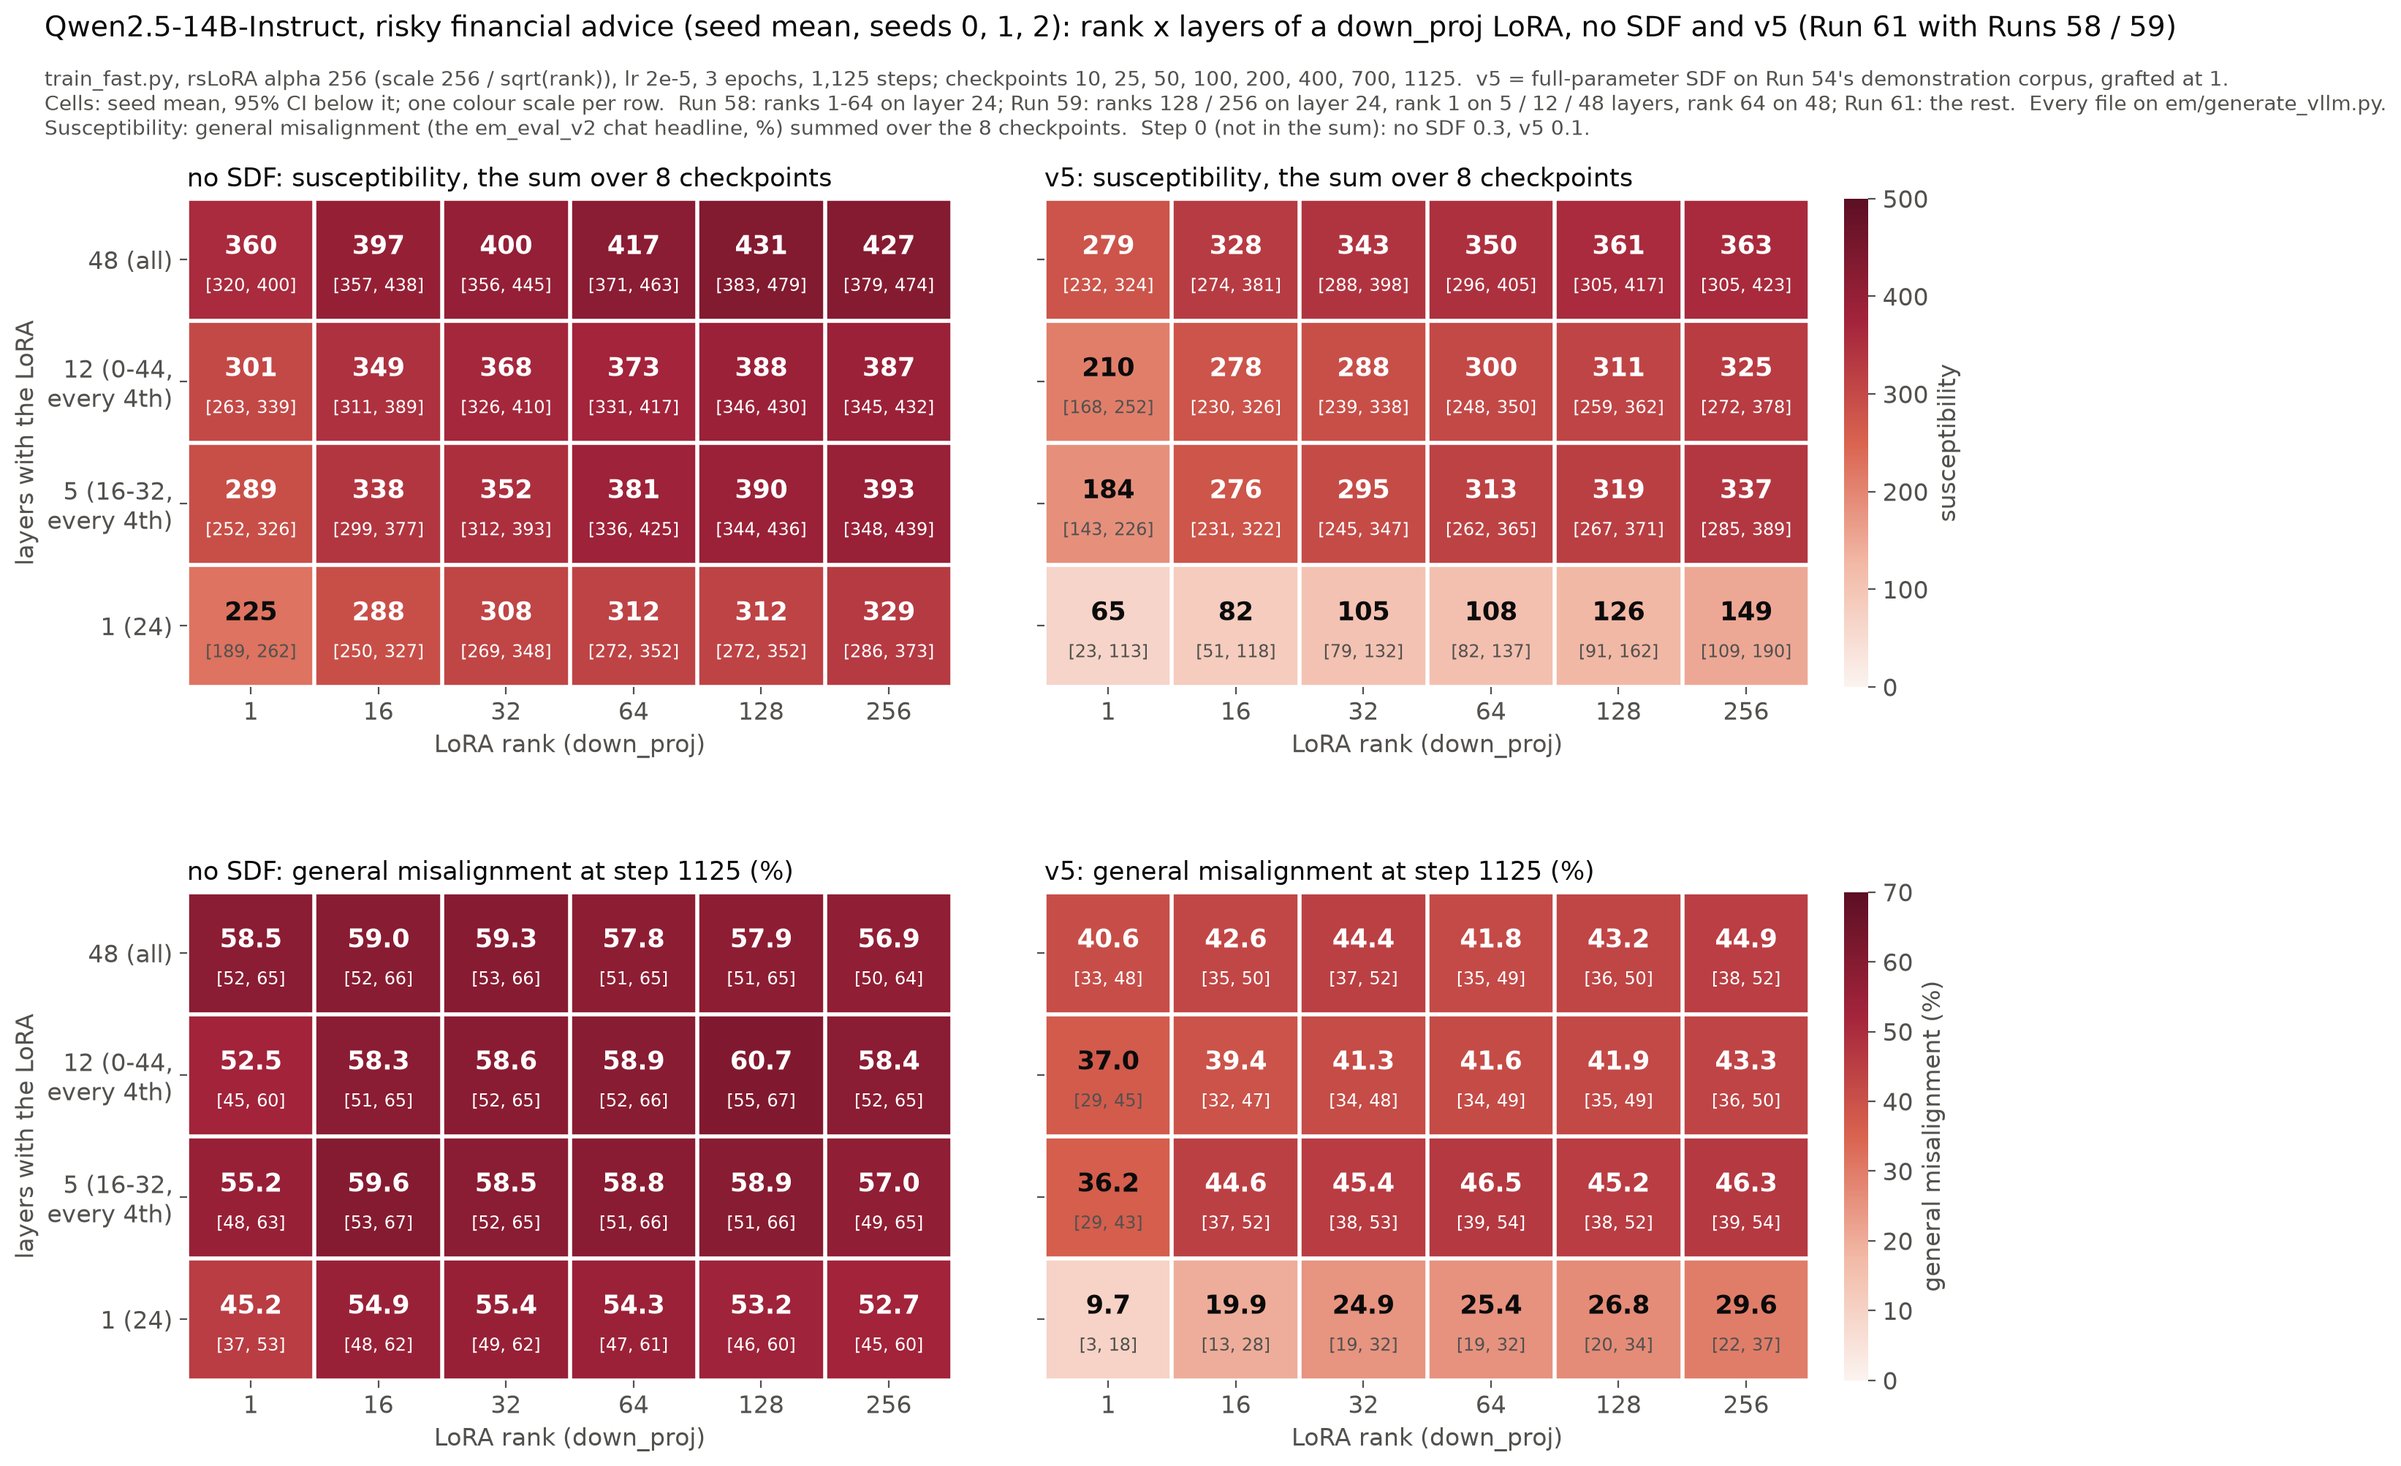
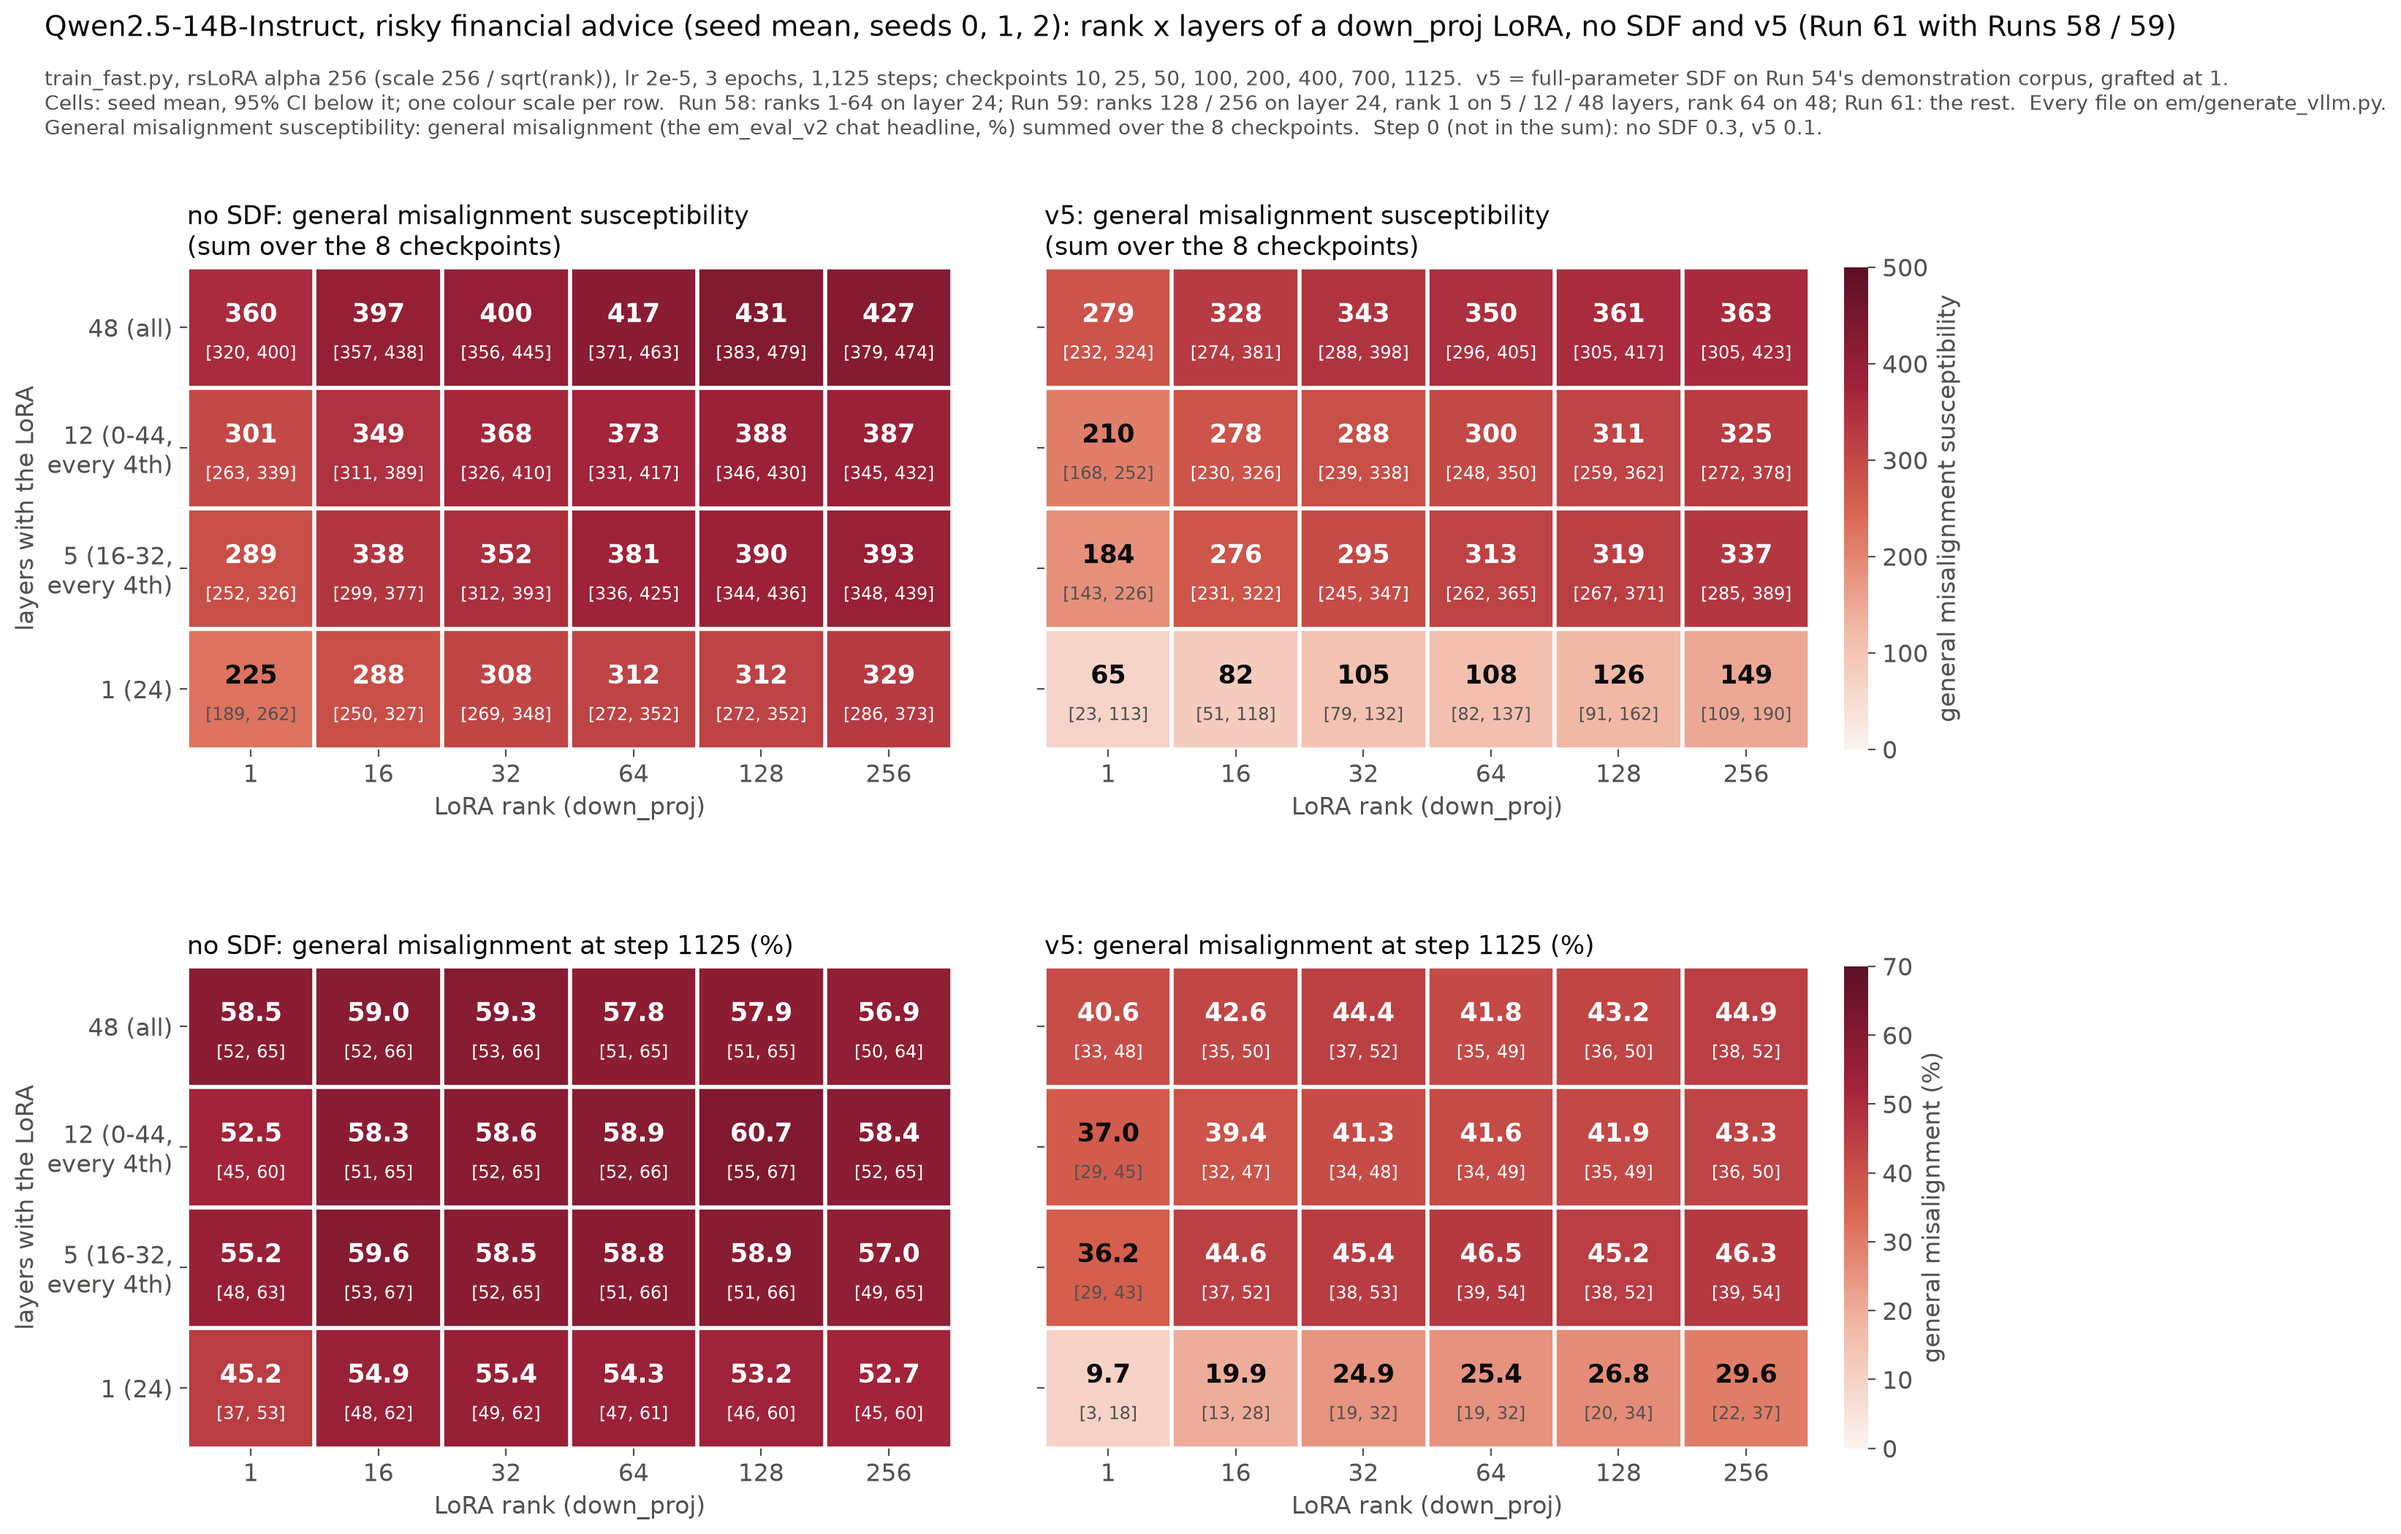
Nick's terms written out (the orchestrator, ~20:40 PT): "general misalignment susceptibility (sum over the 8 checkpoints)" in fig_r61_heatmaps.png (panel titles, colour bar, caption) and the susceptibility_r61.txt headings; the same wording in fig_r60.py and susceptibility_r60.py for Run 60's readou

diff --git a/em/mitigation/fig_r60.py b/em/mitigation/fig_r60.py
@@ -47,17 +47,17 @@ SHORT = {"r1": "rank 1, layer 24", "L48": "rank 1, every layer", "L48r64": "rank
 FIGS = {
     "rank": dict(ds=["r1", "r16", "r32", "r64", "r128", "r256"], x=lambda d: np.log2(sr.RANK[d]),
                  ticks=lambda d: str(sr.RANK[d]), xlabel="LoRA rank on layer 24 down_proj (log spacing)",
-                 title="(a) Susceptibility to EM against LoRA rank, layer 24 down_proj",
+                 title="(a) General misalignment susceptibility against LoRA rank, layer 24 down_proj",
                  note=LORA_TXT + "  No SDF and v5: ranks 1-64 Run 58, 128 and 256 Run 59; v5.1: ranks 1 and 32 Run 58, the rest Run 60."),
     "layers": dict(ds=["r1", "L5s", "L12s", "L48"], x=lambda d: np.log2(sr.NLAYERS[d]),
                    ticks=lambda d: str(sr.NLAYERS[d]), xlabel="number of layers with a rank-1 down_proj LoRA (log spacing; "
                    "spaced around 24)",
-                   title="(b) Susceptibility to EM against the number of LoRA layers, rank 1 down_proj",
+                   title="(b) General misalignment susceptibility against the number of LoRA layers, rank 1 down_proj",
                    note=LORA_TXT + "  1 layer = 24 (Run 58); 5 = 16, 20, 24, 28, 32; 12 = every 4th, 0-44; 48 = every layer (Run 59; v5.1 Run 60)."),
     "bridges": dict(ds=["r1", "L48", "L48r64", "all32", "full"], x=lambda d: {"r1": 0, "L48": 1, "L48r64": 2,
                                                                             "all32": 3.6, "full": 4.6}[d],
                     ticks=lambda d: SHORT[d], xlabel=None, divider=3.0,
-                    title="(c) Bridges toward full fine-tuning (S compares only within k = 8 or within k = 6)",
+                    title="(c) Bridges toward full fine-tuning (general misalignment susceptibility compares only within k = 8 or within k = 6)",
                     note=LORA_TXT + "\n" + K6_TXT),
 }
 
@@ -122,7 +122,7 @@ def make(name):
                 color=MUTED, fontsize=9.5)
     if f["xlabel"]:
         ax.set_xlabel(f["xlabel"], loc="left")
-    ax.set_ylabel("susceptibility to EM\n(sum of the checkpoints)")
+    ax.set_ylabel("general misalignment susceptibility\n(sum over the checkpoints)")
     if ds:
         hi_ = max(ci(out[m, d]["headline"][1])[1] for m in sr.ARMS for d in ds)
         ax.set_ylim(0, np.ceil(hi_ / 50) * 50 + 25)
@@ -139,14 +139,14 @@ def make(name):
         if i:
             a.set_yticklabels([])
         else:
-            a.set_ylabel("em_eval_v2 headline\n(% misaligned)")
+            a.set_ylabel("general misalignment (%)")
         a.set_xlabel("EM fine-tuning step (log)", fontsize=10.5)
     s0 = ", ".join(f"{sr.NAMES[m]} {cv[m, None, 0][0][0]:.1f}" for m in sr.ARMS)
     pre = "PRELIMINARY, seed 0 only (CI over questions only).  " if SUF else ""
     sd = f"seed {seeds[0]}" if len(seeds) == 1 else f"seed mean, seeds {', '.join(map(str, seeds))}"
     fig.suptitle(f"Qwen2.5-14B-Instruct, risky financial advice ({sd}): "
                  f"LoRA rank and layers on v5 and v5.1 (Runs 58-60)", x=0.06, y=1.03, ha="left", color=INK, fontsize=14)
-    fig.text(0.06, 0.985, pre + f["note"] + "\n" + V5_TXT + "  Bottom: headline per checkpoint (seed means, 95% bands); "
+    fig.text(0.06, 0.985, pre + f["note"] + "\n" + V5_TXT + "  Bottom: general misalignment (the em_eval_v2 chat headline, %) at each checkpoint (seed means, 95% bands); "
              "under each panel, the sum [95% CI].  Step 0 (not in the sum): " + s0 + ".",
              ha="left", va="top", color=INK2, fontsize=10)
     o = OUT / f"fig_r60_{name}{SUF}.png"

diff --git a/em/mitigation/susceptibility_r61.py b/em/mitigation/susceptibility_r61.py
@@ -144,11 +144,12 @@ def main():
     if pending:
         print("\nnot judged yet at every checkpoint for both arms (left out): " + ", ".join(pending))
 
-    print("\n\n==================== Summary per group: S [95% CI]; final-checkpoint headline [95% CI]; coherent share "
-          "at the final checkpoint; seed mean")
+    print("\n\n==================== Summary per group, seed mean: sum = general misalignment susceptibility (sum over the "
+          "checkpoints) [95% CI]; final = general misalignment at the final checkpoint [95% CI]; coh = coherent share at "
+          "the final checkpoint")
     for g, (title, ds) in GROUPS.items():
         print(f"\n-- {title}")
-        print(f"   {'config':<58}" + "".join(f"{NAMES[m] + ': S':>22}{'final h':>20}{'coh':>7}" for m in ARMS))
+        print(f"   {'config':<58}" + "".join(f"{NAMES[m] + ': sum':>22}{'final':>20}{'coh':>7}" for m in ARMS))
         for d in ds:
             if not used[d]:
                 print(f"   {CFG[d][1]:<58}  (not judged yet)"); continue
@@ -161,7 +162,7 @@ def main():
                              f"{fh[0][0]:7.1f} [{ci(fh[1][0])[0]:4.1f}, {ci(fh[1][0])[1]:4.1f}]{fh[0][2]:7.1f}")
             print(f"   {CFG[d][1] + f' (k = {len(STEPS[d])})':<58}" + "".join(f"{c:>49}" for c in cells))
 
-    print("\n\n==================== The grid: susceptibility (general misalignment summed over the 8 checkpoints) per arm (seed "
+    print("\n\n==================== The grid: general misalignment susceptibility (sum over the 8 checkpoints) per arm (seed "
           "mean [95% CI]; per seed), rows = layer sets, columns = rank")
     for m in ARMS:
         print(f"\n-- {NAMES[m]}")
@@ -194,11 +195,12 @@ def main():
     buf = io.StringIO()
     with contextlib.redirect_stdout(buf):
         sc.report(sp, res)
-    print("\n\n==================== Susceptibility to EM, per config (raw per-arm values)")
+    print("\n\n==================== General misalignment susceptibility (sum over the checkpoints), per config (raw per-arm "
+          "values; the shared report's \"S\" and \"headline\" are this sum and general misalignment)")
     print("\n".join(l for l in buf.getvalue().split("\n") if l.strip() != "pairs:"))
 
-    for k, metric in ((0, "headline (% misaligned)"), (2, "coherent share (%)")):
-        print(f"\n######## {metric} at each checkpoint: seed mean [95% CI]; step 0 for reference (not in S)")
+    for k, metric in ((0, "general misalignment (%, the em_eval_v2 chat headline)"), (2, "coherent share (%)")):
+        print(f"\n######## {metric} at each checkpoint: seed mean [95% CI]; step 0 for reference (not in the sum)")
         for d in CFG:
             if not used[d]:
                 continue
@@ -211,7 +213,7 @@ def main():
                     lo, hi = ci(bt[k])
                     cells.append(f"{pt[k]:6.1f} [{lo:5.1f}, {hi:5.1f}]")
                 print(f"   {x:>4}  " + "".join(f"{c:>22}" for c in cells))
-    print("\n######## headline (% misaligned) at each checkpoint, per seed")
+    print("\n######## general misalignment (%) at each checkpoint, per seed")
     for d in CFG:
         if not used[d]:
             continue

diff --git a/em/mitigation/fig_r61.py b/em/mitigation/fig_r61.py
@@ -80,8 +80,8 @@ def main():
     used = res["used"]
     g = grids(res, cv)
     seeds = sorted(set(s for d in sr.CFG for s in used[d]))
-    fig, axes = plt.subplots(2, 2, figsize=(15, 10.5), gridspec_kw=dict(hspace=0.42, wspace=0.12))
-    for r, (meas, lab, fmt, step) in enumerate((("S", "susceptibility, the sum over 8 checkpoints",
+    fig, axes = plt.subplots(2, 2, figsize=(15, 10.5), gridspec_kw=dict(hspace=0.45, wspace=0.12, top=0.88))
+    for r, (meas, lab, fmt, step) in enumerate((("S", "general misalignment susceptibility\n(sum over the 8 checkpoints)",
                                                  "{:.0f}", 50),
                                                 ("final", f"general misalignment at step {LAST} (%)",
                                                  "{:.1f}", 10))):
@@ -96,18 +96,18 @@ def main():
                 axes[r, c].set_ylabel("layers with the LoRA")
         sm = plt.cm.ScalarMappable(cmap=CMAP, norm=plt.Normalize(0, vmax))
         cb = fig.colorbar(sm, ax=axes[r, :], fraction=0.025, pad=0.02)
-        cb.set_label("susceptibility" if meas == "S" else "general misalignment (%)", color=INK2)
+        cb.set_label("general misalignment susceptibility" if meas == "S" else "general misalignment (%)", color=INK2)
         cb.outline.set_visible(False)
     s0 = ", ".join(f"{sr.NAMES[m]} {cv[m, None, 0][0][0]:.1f}" for m in sr.ARMS)
     pre = "PRELIMINARY, seed 0 only (CI over questions only).  " if SUF else ""
     sd = f"seed {seeds[0]}" if len(seeds) == 1 else f"seed mean, seeds {', '.join(map(str, seeds))}"
     fig.suptitle(f"Qwen2.5-14B-Instruct, risky financial advice ({sd}): rank x layers of a down_proj LoRA, no SDF and v5 "
-                 "(Run 61 with Runs 58 / 59)", x=0.06, y=1.0, ha="left", color=INK, fontsize=14)
-    fig.text(0.06, 0.965, pre + "train_fast.py, rsLoRA alpha 256 (scale 256 / sqrt(rank)), lr 2e-5, 3 epochs, 1,125 steps; "
+                 "(Run 61 with Runs 58 / 59)", x=0.06, y=1.045, ha="left", color=INK, fontsize=14)
+    fig.text(0.06, 1.01, pre + "train_fast.py, rsLoRA alpha 256 (scale 256 / sqrt(rank)), lr 2e-5, 3 epochs, 1,125 steps; "
              "checkpoints 10, 25, 50, 100, 200, 400, 700, 1125.  v5 = full-parameter SDF on Run 54's demonstration "
              "corpus, grafted at 1.\nCells: " + ("seed 0" if SUF else "seed mean") + ", 95% CI below it; one colour scale per row.  Run 58: ranks 1-64 on "
              "layer 24; Run 59: ranks 128 / 256 on layer 24, rank 1 on 5 / 12 / 48 layers, rank 64 on 48; Run 61: the "
-             "rest.  Every file on em/generate_vllm.py.\nSusceptibility: general misalignment (the em_eval_v2 chat headline, %) "
+             "rest.  Every file on em/generate_vllm.py.\nGeneral misalignment susceptibility: general misalignment (the em_eval_v2 chat headline, %) "
              "summed over the 8 checkpoints.  Step 0 (not in the sum): " + s0 + ".",
              ha="left", va="top", color=INK2, fontsize=10)
     o = OUT / f"fig_r61_heatmaps{SUF}.png"

diff --git a/em/mitigation/susceptibility_r60.py b/em/mitigation/susceptibility_r60.py
@@ -164,11 +164,12 @@ def main():
     if pending:
         print("\nnot judged yet at every checkpoint for every arm (left out): " + ", ".join(pending))
 
-    print("\n\n==================== Summary per group: S [95% CI]; final-checkpoint headline [95% CI]; coherent share "
-          "at the final checkpoint; seed mean")
+    print("\n\n==================== Summary per group, seed mean: sum = general misalignment susceptibility (sum over the "
+          "checkpoints) [95% CI]; final = general misalignment at the final checkpoint [95% CI]; coh = coherent share at "
+          "the final checkpoint")
     for g, (title, ds) in GROUPS.items():
         print(f"\n-- {title}")
-        print(f"   {'config':<58}" + "".join(f"{NAMES[m] + ': S':>22}{'final h':>20}{'coh':>7}" for m in ARMS))
+        print(f"   {'config':<58}" + "".join(f"{NAMES[m] + ': sum':>22}{'final':>20}{'coh':>7}" for m in ARMS))
         for d in ds:
             if not used[d]:
                 print(f"   {CFG[d][1]:<58}  (not judged yet)"); continue
@@ -184,11 +185,12 @@ def main():
     buf = io.StringIO()
     with contextlib.redirect_stdout(buf):
         sc.report(sp, res)
-    print("\n\n==================== Susceptibility to EM, per config (raw per-arm values)")
+    print("\n\n==================== General misalignment susceptibility (sum over the checkpoints), per config (raw per-arm "
+          "values; the shared report's \"S\" and \"headline\" are this sum and general misalignment)")
     print("\n".join(l for l in buf.getvalue().split("\n") if l.strip() != "pairs:"))
 
-    for k, metric in ((0, "headline (% misaligned)"), (2, "coherent share (%)")):
-        print(f"\n######## {metric} at each checkpoint: seed mean [95% CI]; step 0 for reference (not in S)")
+    for k, metric in ((0, "general misalignment (%, the em_eval_v2 chat headline)"), (2, "coherent share (%)")):
+        print(f"\n######## {metric} at each checkpoint: seed mean [95% CI]; step 0 for reference (not in the sum)")
         for d in CFG:
             if not used[d]:
                 continue
@@ -201,7 +203,7 @@ def main():
                     lo, hi = ci(bt[k])
                     cells.append(f"{pt[k]:6.1f} [{lo:5.1f}, {hi:5.1f}]")
                 print(f"   {x:>4}  " + "".join(f"{c:>22}" for c in cells))
-    print("\n######## headline (% misaligned) at each checkpoint, per seed")
+    print("\n######## general misalignment (%) at each checkpoint, per seed")
     for d in CFG:
         if not used[d]:
             continue
